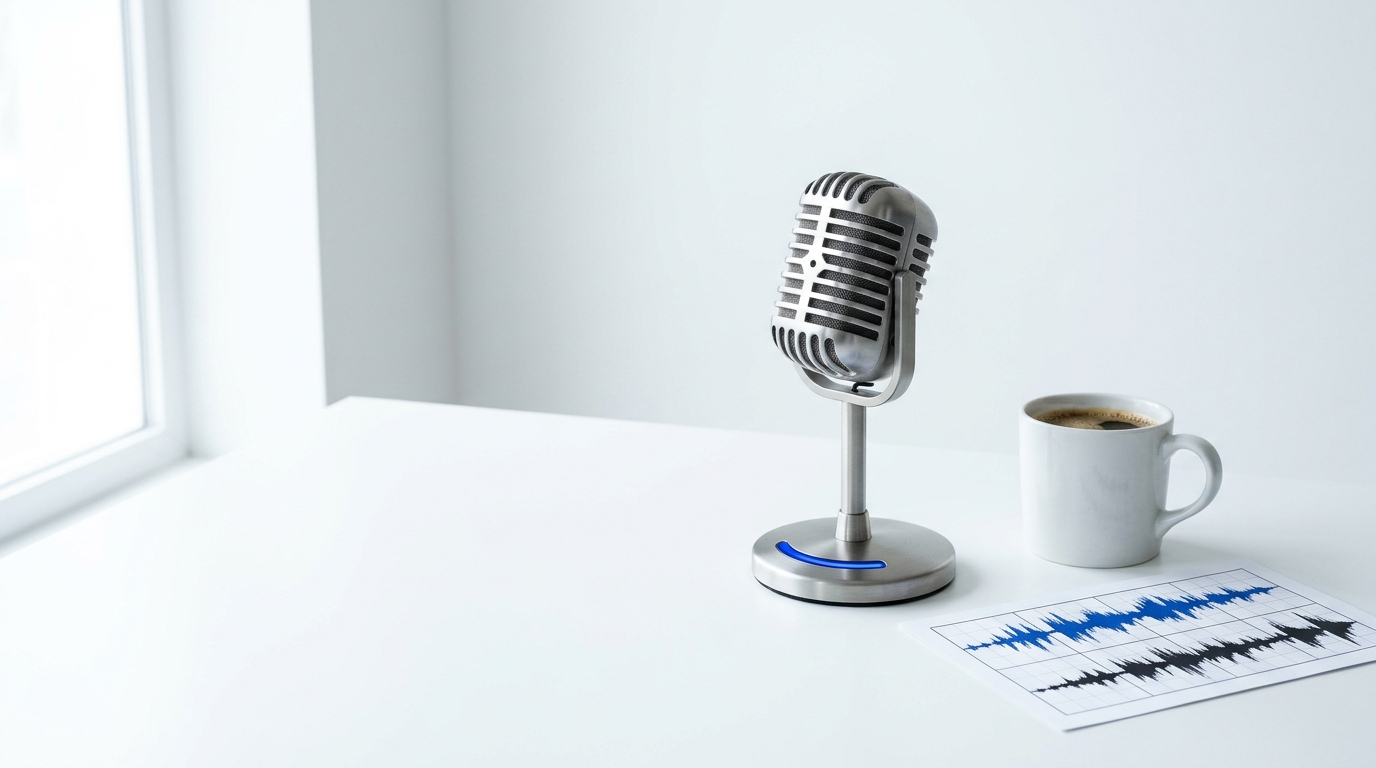
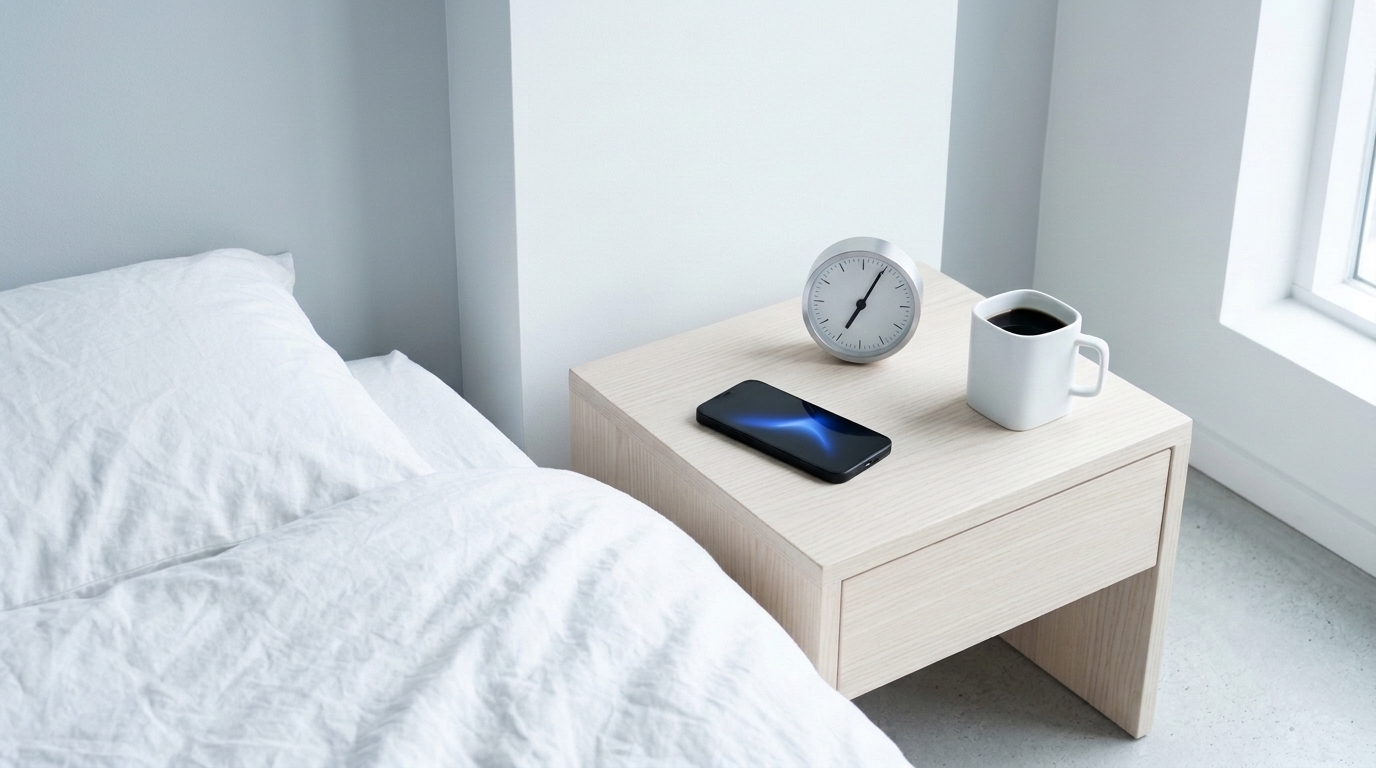
polish: bedroom morning hero, continuous waveform spectrogram, aligned ledger, compact mobile stack

diff --git a/public/app.js b/public/app.js
@@ -100,59 +100,116 @@ function drawSpectrogram(session, currentTimeSec = 0) {
   const h = canvas.height;
   ctx.clearRect(0, 0, w, h);
 
-  // Dark ink studio floor
+  // Layout bands: dedicated top timestamp header + dedicated right frequency lane + bottom time ruler
+  const topBand = 30;
+  const bottomBand = 22;
+  const rightAxis = 62;
+  const plotW = w - rightAxis;
+  const plotH = h - topBand - bottomBand;
+
+  // Dark studio ink background
   ctx.fillStyle = "#12151f";
   ctx.fillRect(0, 0, w, h);
 
   if (!session || !session.spectrogram) return;
   const { cols, rows, data } = session.spectrogram;
-  const cellW = w / cols;
-  const cellH = h / rows;
+  const cellW = plotW / cols;
+  const cellH = plotH / rows;
 
-  // Render real STFT log-frequency heatmap in Piste cobalt & snow ramp
+  // Subtle continuous ambient noise floor gradient across the entire tape
+  ctx.fillStyle = "#161d32";
+  ctx.fillRect(0, topBand, plotW, plotH);
+
+  // Render real STFT log-frequency heatmap as one continuous tape
   for (let c = 0; c < cols; c++) {
     for (let r = 0; r < rows; r++) {
       const v = data[c * rows + r] || 0;
-      if (v < 18) continue;
+      if (v < 8) continue;
       const t = v / 255;
-      const rr = Math.round(28 + t * t * 218);
-      const gg = Math.round(62 + t * 184);
-      const bb = Math.round(180 + t * 75);
+      const rr = Math.round(24 + t * t * 224);
+      const gg = Math.round(48 + t * 198);
+      const bb = Math.round(118 + t * 137);
       ctx.fillStyle = `rgb(${rr},${gg},${bb})`;
-      const y = h - (r + 1) * cellH;
-      ctx.fillRect(Math.floor(c * cellW), Math.floor(y), Math.ceil(cellW + 0.5), Math.ceil(cellH + 0.5));
+      const y = topBand + plotH - (r + 1) * cellH;
+      ctx.fillRect(Math.floor(c * cellW), Math.floor(y), Math.ceil(cellW + 0.6), Math.ceil(cellH + 0.6));
     }
   }
 
-  // Event bracket overlays
-  const dur = Math.max(0.1, session.durationSec || 1);
-  for (const ev of session.events || []) {
-    const x1 = (ev.startSec / dur) * w;
-    const x2 = Math.max(x1 + 3, (ev.endSec / dur) * w);
-    ctx.fillStyle = ev.needsHumanCall ? "rgba(232, 92, 54, 0.22)" : "rgba(247, 249, 255, 0.12)";
-    ctx.fillRect(x1, 0, x2 - x1, h);
-
-    ctx.fillStyle = ev.needsHumanCall ? "#e85c36" : "#f7f9ff";
-    ctx.fillRect(x1, 0, 2, h);
-
-    ctx.font = '500 13px "Barlow", sans-serif';
-    ctx.fillStyle = "#f7f9ff";
-    const tag = `${ev.clockLabel} ${ev.metrics.splPeakDb.toFixed(0)}dB`;
-    const labelX = Math.min(w - 130, x1 + 6);
-    ctx.fillText(tag, labelX, 20);
+  // Continuous real PCM waveform trace across the entire tape so it reads as one unbroken recording
+  if (Array.isArray(session.waveform) && session.waveform.length > 1) {
+    const midY = topBand + plotH * 0.84;
+    const maxAmpH = plotH * 0.14;
+    ctx.strokeStyle = "rgba(247, 249, 255, 0.78)";
+    ctx.lineWidth = 1.5;
+    ctx.beginPath();
+    for (let i = 0; i < session.waveform.length; i++) {
+      const x = (i / (session.waveform.length - 1)) * plotW;
+      const amp = session.waveform[i] * maxAmpH;
+      ctx.moveTo(x, midY - amp);
+      ctx.lineTo(x, midY + amp);
+    }
+    ctx.stroke();
   }
 
-  // Subtle frequency scale ruler along right edge
-  ctx.font = '400 11px "JetBrains Mono", monospace';
-  ctx.fillStyle = "rgba(247, 249, 255, 0.65)";
-  ctx.fillText("6 kHz", w - 46, 18);
-  ctx.fillText("1 kHz", w - 46, Math.round(h * 0.5));
-  ctx.fillText("80 Hz", w - 46, h - 10);
+  // Dedicated header & footer dividers
+  ctx.fillStyle = "#171c2b";
+  ctx.fillRect(0, 0, w, topBand);
+  ctx.fillRect(0, topBand + plotH, w, bottomBand);
+  ctx.fillRect(plotW, 0, rightAxis, h);
+
+  ctx.fillStyle = "rgba(247, 249, 255, 0.35)";
+  ctx.fillRect(0, topBand - 1, w, 1);
+  ctx.fillRect(0, topBand + plotH, w, 1);
+  ctx.fillRect(plotW, 0, 1, h);
+
+  // Event bracket overlays & non-overlapping header timestamps (dashed markers, not box splits)
+  const dur = Math.max(0.1, session.durationSec || 1);
+  let lastLabelRight = -10;
+  for (const ev of session.events || []) {
+    const x1 = (ev.startSec / dur) * plotW;
+    const x2 = Math.max(x1 + 3, (ev.endSec / dur) * plotW);
+    ctx.fillStyle = ev.needsHumanCall ? "rgba(232, 92, 54, 0.18)" : "rgba(247, 249, 255, 0.08)";
+    ctx.fillRect(x1, topBand, x2 - x1, plotH);
+
+    ctx.save();
+    ctx.setLineDash([4, 4]);
+    ctx.strokeStyle = ev.needsHumanCall ? "#ff7752" : "rgba(247, 249, 255, 0.65)";
+    ctx.lineWidth = 1.5;
+    ctx.beginPath();
+    ctx.moveTo(x1, topBand);
+    ctx.lineTo(x1, topBand + plotH);
+    ctx.stroke();
+    ctx.restore();
+
+    ctx.font = '500 14px "Barlow", sans-serif';
+    ctx.fillStyle = ev.needsHumanCall ? "#ffb299" : "#f7f9ff";
+    const tag = `${ev.clockLabel}  ${ev.metrics.splPeakDb.toFixed(0)} dB`;
+    const tagWidth = ctx.measureText(tag).width;
+    const labelX = Math.max(lastLabelRight + 10, Math.min(plotW - tagWidth - 6, x1 + 4));
+    ctx.fillText(tag, labelX, 20);
+    lastLabelRight = labelX + tagWidth;
+  }
+
+  // Crisp full-contrast right-hand frequency axis
+  ctx.font = '400 13px "JetBrains Mono", monospace';
+  ctx.fillStyle = "#f7f9ff";
+  ctx.fillText("6 kHz", plotW + 8, topBand + 16);
+  ctx.fillText("1 kHz", plotW + 8, Math.round(topBand + plotH * 0.52));
+  ctx.fillText("80 Hz", plotW + 8, topBand + plotH - 6);
+
+  // Crisp bottom time axis
+  ctx.fillStyle = "rgba(247, 249, 255, 0.85)";
+  const ticks = 4;
+  for (let i = 0; i <= ticks; i++) {
+    const sec = (dur * i) / ticks;
+    const tx = Math.min(plotW - 44, Math.max(6, (plotW * i) / ticks - (i === 0 ? 0 : 18)));
+    ctx.fillText(`${sec.toFixed(0)}s`, tx, h - 6);
+  }
 
   // Live playhead cursor
-  const px = Math.min(w - 2, Math.max(0, (currentTimeSec / dur) * w));
+  const px = Math.min(plotW - 2, Math.max(0, (currentTimeSec / dur) * plotW));
   ctx.fillStyle = "#f7f9ff";
-  ctx.fillRect(px, 0, 2, h);
+  ctx.fillRect(px, topBand, 2, plotH);
 }
 
 function drawMicMeter(level = 0) {
@@ -177,7 +234,19 @@ function renderActiveSession() {
   const s = state.activeSession;
   if (!s) return;
 
-  el.headline.textContent = s.headline;
+  // Preserve exact acoustic unit casing ("dB") inside uppercase display headline
+  clearNode(el.headline);
+  const parts = String(s.headline || "").split(/\b(dB|DB)\b/);
+  for (const p of parts) {
+    if (p === "dB" || p === "DB") {
+      const span = document.createElement("span");
+      span.className = "unit-exact";
+      span.textContent = "dB";
+      el.headline.append(span);
+    } else if (p) {
+      el.headline.append(document.createTextNode(p));
+    }
+  }
   el.subhead.textContent = s.subhead;
   el.boxScoreDate.textContent = `${s.title} (${s.nightDate}), ${s.durationSec.toFixed(1)}s tape, ${s.ambientSplDb.toFixed(0)} dB room floor.`;
 
@@ -383,7 +452,7 @@ function renderLedgerAndProof() {
   }
 
   if (state.connectors) {
-    el.rawKeyCount.textContent = String(state.connectors.envAudit.rawApiKeysInEnv);
+    el.rawKeyCount.textContent = `${state.connectors.envAudit.rawApiKeysInEnv} keys`;
     el.runtimeModeNote.textContent = state.connectors.insideSprite
       ? `Fly.io Sprite live gateway (${state.connectors.connectedCount}/${state.connectors.totalCatalog} active)`
       : `Local preview mode (${state.connectors.connectedCount}/${state.connectors.totalCatalog} Sprite gateways)`;
@@ -750,7 +819,9 @@ el.btnRerun.addEventListener("click", async () => {
 el.canvas.addEventListener("click", (e) => {
   if (!state.activeSession) return;
   const rect = el.canvas.getBoundingClientRect();
-  const ratio = Math.max(0, Math.min(1, (e.clientX - rect.left) / rect.width));
+  const plotFrac = (el.canvas.width - 62) / el.canvas.width;
+  const plotCssW = rect.width * plotFrac;
+  const ratio = Math.max(0, Math.min(1, (e.clientX - rect.left) / plotCssW));
   const sec = ratio * state.activeSession.durationSec;
   playSegment(sec, null);
 });

diff --git a/public/styles.css b/public/styles.css
@@ -39,9 +39,9 @@
   --color-paper-2: oklch(95.5% 0.008 260);
   --color-paper-3: oklch(91% 0.01 260);
   --color-ink: oklch(16% 0.012 260);
-  --color-ink-2: oklch(30% 0.014 260);
-  --color-muted: oklch(46% 0.016 260);
-  --color-rule: oklch(85% 0.012 260);
+  --color-ink-2: oklch(26% 0.014 260);
+  --color-muted: oklch(38% 0.016 260);
+  --color-rule: oklch(84% 0.012 260);
   --color-accent: oklch(52% 0.25 265);
   --color-accent-deep: oklch(40% 0.2 266);
   --color-accent-ink: oklch(98.5% 0.005 260);
@@ -373,11 +373,10 @@ p {
   cursor: not-allowed;
 }
 
-/* Hero: fits cleanly inside 1280x800 and 1440x900 */
+/* Hero: tight editorial split so cobalt replay desk previews immediately at the fold */
 .hero {
   display: grid;
   align-items: center;
-  min-height: min(46rem, 84dvh);
   padding-block: var(--space-xl);
 }
 
@@ -530,6 +529,19 @@ p {
   min-height: 1lh;
 }
 
+.mic-meter-wrap {
+  display: inline-flex;
+  align-items: center;
+  gap: var(--space-sm);
+}
+
+.mic-meter-label {
+  font-size: var(--text-xs);
+  font-weight: 500;
+  color: var(--color-accent-ink);
+  white-space: nowrap;
+}
+
 .mic-meter {
   display: block;
   width: 11rem;
@@ -606,11 +618,8 @@ p {
 }
 
 .section-head {
-  display: flex;
-  flex-wrap: wrap;
-  align-items: baseline;
-  justify-content: space-between;
-  gap: var(--space-md);
+  display: grid;
+  gap: var(--space-xs);
   margin-bottom: var(--space-lg);
 }
 
@@ -640,6 +649,10 @@ p {
 
 .stat-cell:last-child {
   border-right: 0;
+}
+
+.unit-exact {
+  text-transform: none;
 }
 
 .fig {
@@ -795,9 +808,17 @@ p {
 
 .row-actions {
   display: flex;
-  flex-wrap: wrap;
+  flex-wrap: nowrap;
   align-items: center;
   gap: var(--space-xs);
+}
+
+.row-actions .btn:first-child {
+  min-width: 6.25rem;
+}
+
+.row-actions .btn:last-child {
+  min-width: 7.75rem;
 }
 
 .conn-table {
@@ -807,7 +828,7 @@ p {
   --label-4: "Role";
 }
 
-@container (width < 600px) {
+@container (width < 780px) {
   .film-table,
   .film-table thead,
   .film-table tbody,
@@ -822,7 +843,8 @@ p {
   }
 
   .film-table tr {
-    margin-block-end: var(--space-md);
+    margin-block-end: var(--space-sm);
+    padding-bottom: var(--space-xs);
     border-top: var(--rule-bar) solid var(--color-ink);
     border-bottom: var(--rule-hair) solid var(--color-rule);
   }
@@ -831,12 +853,18 @@ p {
     position: sticky;
     inset-block-start: 0;
     z-index: 2;
+    padding: var(--space-xs) var(--space-sm);
     background-color: var(--color-paper-2);
     border-bottom: var(--rule-hair) solid var(--color-rule);
   }
 
   .film-table td {
-    padding: var(--space-sm) var(--space-md);
+    padding: var(--space-2xs) var(--space-sm);
+    border-bottom: 0;
+  }
+
+  .film-table td:last-child {
+    padding-top: var(--space-xs);
   }
 
   .film-table td:nth-child(2)::before {
@@ -939,12 +967,12 @@ p {
 .key-proof-row {
   display: flex;
   flex-wrap: wrap;
-  align-items: baseline;
+  align-items: center;
   justify-content: space-between;
   gap: var(--space-md);
-  padding-block: var(--space-md);
-  border-top: var(--rule-bar) solid var(--color-ink);
-  border-bottom: var(--rule-hair) solid var(--color-rule);
+  padding: var(--space-md);
+  background-color: var(--color-paper-2);
+  border: var(--rule-bar) solid var(--color-ink);
 }
 
 .key-proof-num {

diff --git a/public/index.html b/public/index.html
@@ -45,7 +45,7 @@
         <div class="hero__visual">
           <img
             src="/assets/hero-desk.jpg"
-            alt="Brushed silver broadcast desk microphone beside a white coffee mug and printed cobalt audio waveform sheet in bright morning light"
+            alt="Unmade white linen bed beside a pale nightstand holding a face-up phone glowing cobalt, an analog clock at 7:05, and a square white coffee mug in cool morning light"
             width="1376"
             height="768"
             fetchpriority="high"
@@ -85,13 +85,16 @@
 
           <div class="mic-status-bar">
             <p id="mic-status" class="mic-status-text" role="status" aria-live="polite">Ready. Click any peak on the spectrogram to jump straight to that moment, or record 8 seconds from your microphone.</p>
-            <canvas
-              id="mic-meter"
-              class="mic-meter"
-              width="220"
-              height="32"
-              role="img"
-              aria-label="Live microphone input level meter"></canvas>
+            <div class="mic-meter-wrap">
+              <span class="mic-meter-label">Mic level</span>
+              <canvas
+                id="mic-meter"
+                class="mic-meter"
+                width="220"
+                height="32"
+                role="img"
+                aria-label="Live microphone input level meter"></canvas>
+            </div>
           </div>
         </div>
 
@@ -137,7 +140,7 @@
       <div class="shell">
         <div class="section-head">
           <h2 id="film-heading">Event film ledger</h2>
-          <p class="section-lead">Events below 70% Jev confidence pause for your booth ruling and save their 32-dim FFT signature for tomorrow night.</p>
+          <p class="section-lead">Events below 70% Jev confidence pause for your booth ruling and save their acoustic fingerprint for tomorrow night.</p>
         </div>
 
         <div tabindex="0" role="region" aria-labelledby="film-table-caption" class="table-wrapper">
